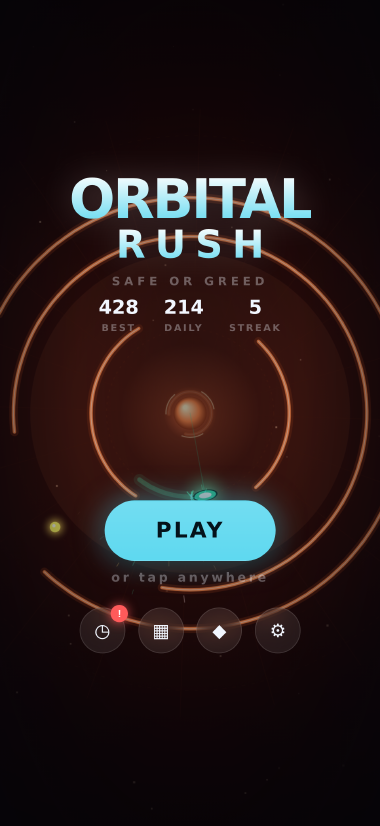
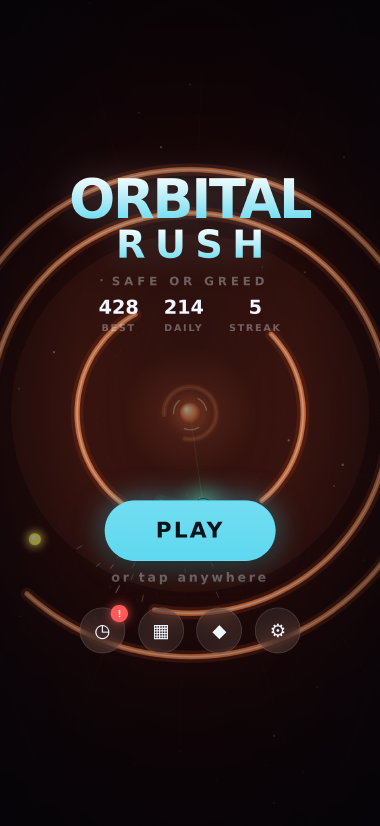
Pull the camera in and make the player an honest ball
The field had drifted far away and the player had become a frisbee. Both
are fixed at the source rather than by drawing tricks.

Camera. A new TUNE.viewScale multiplies the only place world units become
pixels, so rings, player and orbs all grow together and no world unit
changes. Its ceiling is a gameplay rule, not taste: the ring you must clear
next sits at playerOrbit + baseSpacing, and it has to be fully on screen
the moment you clear the current one, because its gap can be at any angle —
including the one the screen edge would clip. 1.12 with a margin; a test
holds us to it. Rings are thicker (0.018 -> 0.024) and keep their soft
casing, which is what makes a line read as a tube.

The player is a ball. playerRadial/playerTangential are gone; there is one
playerRadius, so the circle you see is the circle the simulation sweeps and
no axis is secretly kinder than the other. 0.034 was solved for, not
guessed: it holds the minimum-gap floor where it was, so difficulty does
not move. Measured across 1,700 generated rings, mean gap slack 0.198 rad
vs 0.186 before and the same 21% of rings at the floor; the autopilot's
median run is unchanged across four sloppiness levels. The flip pop is
area-preserving now, so it never flattens.

Every skin is that same sphere, shaded like a lit one — light from the core,
which is the only light in the scene — with its shape as a mark held inside
the body. Drawing one skin larger than another was a lie about where the
[…]

diff --git a/www/src/game/render.js b/www/src/game/render.js
@@ -58,6 +58,7 @@ export class Renderer {
     this._moteBuckets = Array.from({ length: 6 }, () => []);
     this._gapScratch = Array.from({ length: 8 }, () => ({ c: 0, half: 0 }));
     this._haloCache = new Map();
+    this._shadeCache = new Map();
     this.trail = [];
     this._skyGradient = null;
     this._skyKey = '';
@@ -94,12 +95,15 @@ export class Renderer {
     this.h = cssH;
     this.cx = cssW / 2;
     this.cy = cssH / 2;
-    this.unit = Math.min(cssW, cssH) / 2;
+    // viewScale is the whole camera: raise it and the field comes closer,
+    // because every world unit is drawn larger while none of them changes.
+    this.unit = (Math.min(cssW, cssH) / 2) * TUNE.viewScale;
     this._skyGradient = null;
     this._skyKey = '';
     this._vignette = null;
     this._vignetteDark = -1;
     this._haloCache.clear();
+    this._shadeCache.clear();
     this._buildStars();
   }
 
@@ -411,19 +415,22 @@ export class Renderer {
 
   _drawCore(ctx, world) {
     const p = this.pal;
-    const base = this.unit * 0.085;
+    // The core is the star you orbit, not a character. It used to be drawn
+    // larger and brighter than the player, which made the eye read the wrong
+    // object as "me". It is a landmark now: smaller, dimmer, still the anchor.
+    const base = this.unit * 0.052;
     const pulse = 1 + this.corePulse * 0.28 + Math.sin(this.coreSpin * 2.2) * 0.035;
     const r = base * pulse;
 
     ctx.save();
     ctx.globalCompositeOperation = 'lighter';
-    const halo = ctx.createRadialGradient(this.cx, this.cy, r * 0.2, this.cx, this.cy, r * 4.2);
-    halo.addColorStop(0, rgba(p.ring, 0.55));
-    halo.addColorStop(0.35, rgba(p.ring, 0.14));
+    const halo = ctx.createRadialGradient(this.cx, this.cy, r * 0.2, this.cx, this.cy, r * 5.8);
+    halo.addColorStop(0, rgba(p.ring, 0.42));
+    halo.addColorStop(0.35, rgba(p.ring, 0.12));
     halo.addColorStop(1, rgba(p.ring, 0));
     ctx.fillStyle = halo;
     ctx.beginPath();
-    ctx.arc(this.cx, this.cy, r * 4.2, 0, TAU);
+    ctx.arc(this.cx, this.cy, r * 5.8, 0, TAU);
     ctx.fill();
     ctx.restore();
 
@@ -431,9 +438,9 @@ export class Renderer {
       this.cx - r * 0.3, this.cy - r * 0.35, r * 0.1,
       this.cx, this.cy, r,
     );
-    body.addColorStop(0, rgba(p.accent, 1));
-    body.addColorStop(0.6, rgba(p.ring, 0.95));
-    body.addColorStop(1, rgba(p.ringDim, 0.9));
+    body.addColorStop(0, rgba(p.accent, 0.9));
+    body.addColorStop(0.6, rgba(p.ring, 0.78));
+    body.addColorStop(1, rgba(p.ringDim, 0.68));
     ctx.fillStyle = body;
     ctx.beginPath();
     ctx.arc(this.cx, this.cy, r, 0, TAU);
@@ -531,8 +538,12 @@ export class Renderer {
         const a1 = rot + to;
 
         if (!this.reduced) {
-          ctx.strokeStyle = rgba(p.ringDim, alpha * 0.42);
-          ctx.lineWidth = thick * 2.5;
+          // The soft casing around each ring. This is what turns a bright line
+          // into a tube with depth, and it is the widest stroke on the frame —
+          // so it is also the one place where a wider ring costs real fill
+          // time. 2.4x is where it still reads as a tube on a phone.
+          ctx.strokeStyle = rgba(p.ringDim, alpha * 0.44);
+          ctx.lineWidth = thick * 2.4;
           ctx.beginPath();
           ctx.arc(this.cx, this.cy, radius, a0, a1);
           ctx.stroke();
@@ -626,22 +637,47 @@ export class Renderer {
     return halo;
   }
 
+  /**
+   * The player's body is lit like a sphere rather than filled flat, which is
+   * most of what stops it reading as a sticker. The gradient is built in local
+   * coordinates around the origin, so one per skin serves every frame however
+   * the canvas is rotated or scaled underneath it.
+   *
+   * Local +y points at the core, which is the only light in the scene — so the
+   * bright side of the ball always faces the star it is orbiting, and turns
+   * with it as the player swings around.
+   */
+  _bodyShade(ctx, skin, r) {
+    const key = `${skin.id}|${Math.round(r)}`;
+    let shade = this._shadeCache.get(key);
+    if (!shade) {
+      shade = ctx.createRadialGradient(-r * 0.16, r * 0.34, r * 0.05, 0, 0, r * 1.18);
+      shade.addColorStop(0, '#ffffff');
+      shade.addColorStop(0.24, skin.glow);
+      shade.addColorStop(0.74, skin.glow);
+      shade.addColorStop(1, skin.trail || skin.glow);
+      if (this._shadeCache.size > 16) this._shadeCache.clear();
+      this._shadeCache.set(key, shade);
+    }
+    return shade;
+  }
+
   _drawPlayer(ctx, world, skin, trail) {
     const u = this.unit;
     const orbit = TUNE.playerOrbit * u;
     const a = world.player.angle;
     const x = this.cx + Math.cos(a) * orbit;
     const y = this.cy + Math.sin(a) * orbit;
-    // The body is drawn at exactly its collision size: wide along the orbit,
-    // narrow across it. What touches a ring is what the simulation tests.
-    const r = TUNE.playerTangential * u;
-    const flatten = TUNE.playerRadial / TUNE.playerTangential;
+    // The body is drawn at exactly its collision size: one circle, the same
+    // radius the simulation sweeps. What touches a ring is what the
+    // simulation tests, on every axis.
+    const r = TUNE.playerRadius * u;
 
     this.trail.push({ x, y });
     while (this.trail.length > TRAIL_LEN) this.trail.shift();
 
     if (!this.reduced && this.trail.length > 2) {
-      this._drawTrail(ctx, trail.style, skin, r * flatten);
+      this._drawTrail(ctx, trail.style, skin, r);
     }
 
     // The arm back to the core makes the player's angle instantly readable.
@@ -655,12 +691,16 @@ export class Renderer {
     ctx.stroke();
     ctx.restore();
 
+    // A flip gives the ball a short elastic pop. The two axes are reciprocal,
+    // so its area never changes and its silhouette never flattens into a disc.
     const sinceFlip = world.time - world.player.flipAt;
-    const squash = 1 + Math.exp(-sinceFlip * 14) * 0.42;
+    const pop = 1 + Math.exp(-sinceFlip * 14) * 0.15;
 
     // The halo grows with the chain: at x1 it is a soft edge, at OVERDRIVE it
     // is the brightest thing on screen that is not a ring.
-    const halo = r * (3.0 + this.heat * 1.6);
+    // Tied to the body radius, but reaching much further than it: the player is
+    // the smallest object on screen and has to be the one your eye lands on.
+    const halo = r * (4.8 + this.heat * 2.5);
     ctx.save();
     ctx.globalCompositeOperation = 'lighter';
     const g = ctx.createRadialGradient(x, y, 0, x, y, halo);
@@ -687,7 +727,7 @@ export class Renderer {
       for (let i = 0; i < 2; i++) {
         const spin = this.clock * (i ? -3.4 : 4.2) + i * Math.PI;
         ctx.beginPath();
-        ctx.arc(0, 0, r * (2.0 + i * 0.5), spin, spin + 1.5);
+        ctx.arc(0, 0, r * (3.0 + i * 0.75), spin, spin + 1.5);
         ctx.stroke();
       }
       ctx.restore();
@@ -696,31 +736,46 @@ export class Renderer {
     ctx.save();
     ctx.translate(x, y);
     ctx.rotate(a + Math.PI / 2);
-    // Local x runs along the orbit, local y across it.
-    ctx.scale(squash, flatten * (2 - squash));
+    // Local x runs along the orbit; local +y points at the core, which is where
+    // the light comes from and where the highlight has to sit.
+    ctx.scale(pop, 1 / pop);
 
     // A dark rim keeps the body from dissolving into a bright ring behind it.
     // Each skin carries its own, tuned to sit under its glow rather than
     // looking like a black sticker.
     ctx.lineJoin = 'round';
     ctx.strokeStyle = skin.rim || '#04070e';
-    ctx.lineWidth = Math.max(1.5, r * 0.30);
-    this._shapePath(ctx, skin.shape, r);
+    ctx.lineWidth = Math.max(1.5, r * 0.26);
+    ctx.beginPath();
+    ctx.arc(0, 0, r, 0, TAU);
     ctx.stroke();
 
-    ctx.fillStyle = skin.glow;
-    this._shapePath(ctx, skin.shape, r);
-    ctx.fill();
-    ctx.fillStyle = skin.core;
-    this._shapePath(ctx, skin.shape, r * 0.58);
+    // Every skin is the same sphere, because the sphere is the collision body
+    // and drawing one skin larger than another would be a lie about where the
+    // walls are. Identity lives in the shading, the mark and the rim instead.
+    ctx.fillStyle = this._bodyShade(ctx, skin, r);
+    ctx.beginPath();
+    ctx.arc(0, 0, r, 0, TAU);
     ctx.fill();
 
-    // A specular pip: two pixels of white that turn a flat shape into an
-    // object catching the light of the star it is orbiting.
-    ctx.globalAlpha = 0.75;
+    // The skin's mark, held well inside the sphere.
+    ctx.globalAlpha = 0.94;
+    ctx.fillStyle = skin.core;
+    this._shapePath(ctx, skin.shape, r * 0.42);
+    ctx.fill();
+    ctx.globalAlpha = 0.55;
+    ctx.strokeStyle = skin.rim || '#04070e';
+    ctx.lineWidth = Math.max(1, r * 0.08);
+    this._shapePath(ctx, skin.shape, r * 0.42);
+    ctx.stroke();
+
+    // A specular pip, sitting outside the mark rather than merging with it:
+    // the highlight that turns a flat disc into an object catching the light of
+    // the star it is orbiting.
+    ctx.globalAlpha = 0.9;
     ctx.fillStyle = '#ffffff';
     ctx.beginPath();
-    ctx.arc(-r * 0.30, -r * 0.28, r * 0.17, 0, TAU);
+    ctx.arc(-r * 0.14, r * 0.60, r * 0.16, 0, TAU);
     ctx.fill();
     ctx.restore();
 
@@ -737,10 +792,9 @@ export class Renderer {
       ctx.save();
       ctx.translate(x, y);
       ctx.rotate(a + Math.PI / 2);
-      ctx.scale(1, Math.max(flatten, 0.64));
 
       for (let i = Math.max(1, charges) - 1; i >= 0; i--) {
-        const rr = r * (1.62 + i * 0.44);
+        const rr = r * (1.95 + i * 0.62);
         const outer = i > 0;
         const alpha = breathe * (outer ? 0.5 : 1);
 

diff --git a/www/src/game/config.js b/www/src/game/config.js
@@ -8,18 +8,28 @@
  */
 
 export const TUNE = {
+  // How much of the playfield the camera shows. 1.0 fits a radius of 1.0
+  // across the shorter screen side; above that the view pulls in and
+  // everything — rings, player, orbs — grows together, because only the
+  // drawing scale changes and never a world unit.
+  //
+  // The ceiling is a gameplay rule, not taste: the ring you must clear next
+  // sits at `playerOrbit + baseSpacing`, and it has to be fully on screen the
+  // moment you clear the current one, so `viewScale <= 1 / (playerOrbit +
+  // baseSpacing)`. `tests/world.test.mjs` holds us to it.
+  viewScale: 1.12,
   playerOrbit: 0.44,
-  // The player is a lens, not a ball: narrow across the ring it is crossing,
-  // wide along its own orbit. The radial half-extent sets how long a ring
-  // touches the player, which is what the collision test has to survive — and
-  // it is also what makes the player visible, so both matter.
-  playerRadial: 0.030,
-  playerTangential: 0.050,
+  // The player is a ball. One radius, so what the collision test sweeps is a
+  // circle and what you see is that same circle — no axis is secretly kinder
+  // than the other. It sets two things at once: how long a ring touches the
+  // player (radius + half the ring's thickness) and how wide the player is
+  // along its own orbit (radius / orbit), which is the floor under every gap.
+  playerRadius: 0.034,
   spawnRadius: 1.30,
   despawnRadius: 0.05,
   playerAngularSpeed: 2.35,
   ringSpeed: 0.48,
-  ringThickness: 0.018,
+  ringThickness: 0.024,
   orbRadius: 0.026,
   baseSpacing: 0.42,
   minSpacing: 0.38,

diff --git a/www/src/ui/sharecard.js b/www/src/ui/sharecard.js
@@ -54,17 +54,34 @@ export function drawShareCard(result, palette, skin) {
   ctx.arc(px, py, 120, 0, TAU);
   ctx.fill();
   ctx.globalAlpha = 1;
+  // The same sphere the game draws: round, lit from one side, with the skin's
+  // mark inside it and the highlight clear of that mark.
   ctx.save();
   ctx.translate(px, py);
-  ctx.scale(1, 0.6);
-  ctx.fillStyle = skin.glow;
+  const body = ctx.createRadialGradient(-12, -12, 2, 0, 0, 40);
+  body.addColorStop(0, '#ffffff');
+  body.addColorStop(0.24, skin.glow);
+  body.addColorStop(0.74, skin.glow);
+  body.addColorStop(1, skin.trail || skin.glow);
+  ctx.strokeStyle = skin.rim || '#04070e';
+  ctx.lineWidth = 9;
+  ctx.beginPath();
+  ctx.arc(0, 0, 34, 0, TAU);
+  ctx.stroke();
+  ctx.fillStyle = body;
   ctx.beginPath();
   ctx.arc(0, 0, 34, 0, TAU);
   ctx.fill();
   ctx.fillStyle = skin.core;
   ctx.beginPath();
-  ctx.arc(0, 0, 18, 0, TAU);
+  ctx.arc(0, 0, 16, 0, TAU);
   ctx.fill();
+  ctx.globalAlpha = 0.85;
+  ctx.fillStyle = '#ffffff';
+  ctx.beginPath();
+  ctx.arc(-19, -19, 6.5, 0, TAU);
+  ctx.fill();
+  ctx.globalAlpha = 1;
   ctx.restore();
 
   // Wordmark

diff --git a/www/src/game/world.js b/www/src/game/world.js
@@ -53,11 +53,11 @@ export const EVT = {
 const SPARE_POWERS = ['slow', 'double'];
 
 /** Half the radial span over which a ring is in contact with the player. */
-export const BAND_HALF = TUNE.playerRadial + TUNE.ringThickness / 2;
+export const BAND_HALF = TUNE.playerRadius + TUNE.ringThickness / 2;
 /** The player's half-width along its own orbit, in radians. */
-export const PLAYER_HALF = TUNE.playerTangential / TUNE.playerOrbit;
+export const PLAYER_HALF = TUNE.playerRadius / TUNE.playerOrbit;
 /** How close an orb has to pass to be collected, in radians. */
-const ORB_TOLERANCE = (TUNE.playerTangential + TUNE.orbRadius) / TUNE.playerOrbit;
+const ORB_TOLERANCE = (TUNE.playerRadius + TUNE.orbRadius) / TUNE.playerOrbit;
 
 /**
  * Collision is sampled at a fixed resolution in *travel*, never per frame, so
